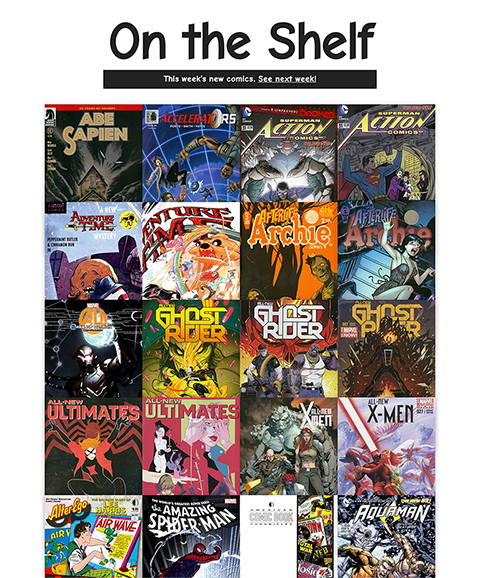
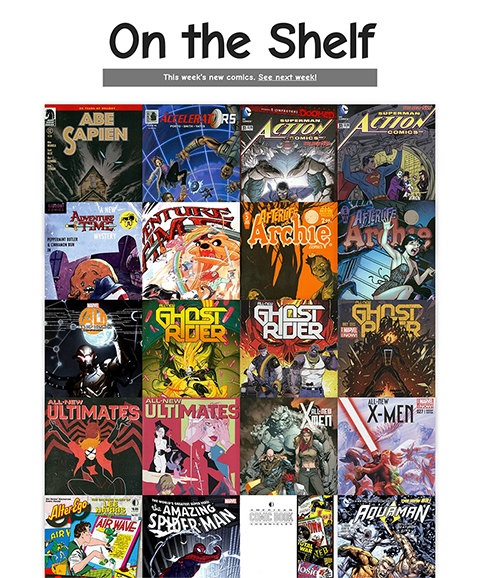
added "on the shelf" to home pg and titles

Changed region(s): [[0.1875, 0.0311, 0.8125, 0.1557]]

diff --git a/_harp/css/comic-shelf.less b/_harp/css/comic-shelf.less
@@ -55,9 +55,9 @@ a:hover {
   color: #aaa;
 }
 .da-shelf {
-  background: #222;
+  background: #777;
   margin: 0 auto;
-  padding: 10px 0;
+  padding: 7px 0;
   h2 {
     font-family: 'Comic Neue Angular', sans-serif;
     margin: 0;
